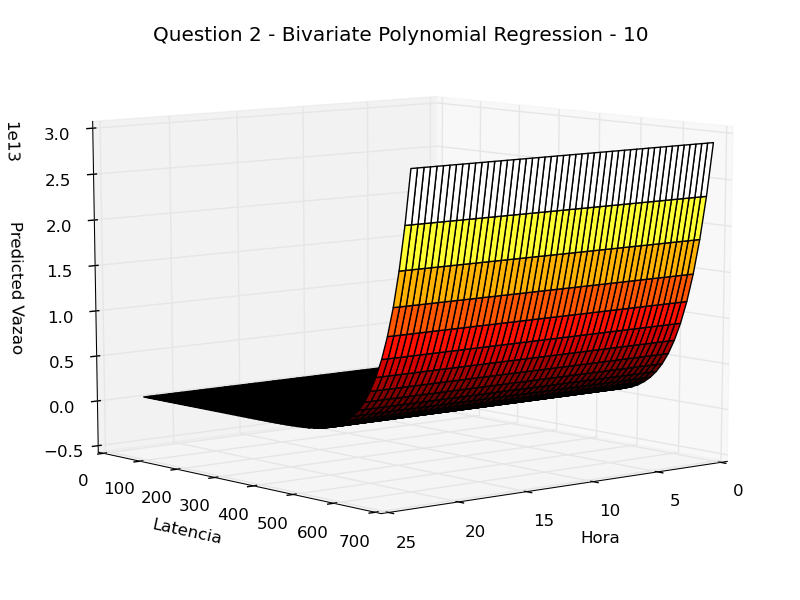
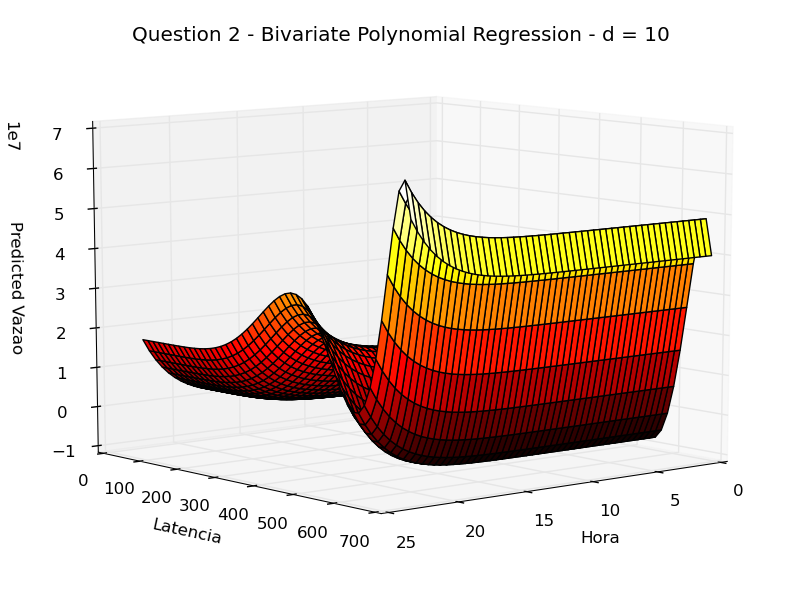
Fixing fit from question 2

diff --git a/Lista2/question2/question2.py b/Lista2/question2/question2.py
@@ -30,7 +30,7 @@ dList = [2,3,5,10]
 for d in dList:
 	formulaString = vazao + ' ~ 1'
 	
-	for expo in range(d+1):
+	for expo in range(1,d+1):
 		formulaString += ' + I('+hora+' ** '+str(expo)+')'
 		formulaString += ' + I('+latencia+' ** '+str(expo)+')'
 
@@ -41,13 +41,15 @@ for d in dList:
 	X = numpy.arange(data[['Col3']].min(), data[['Col3']].max(), data[['Col3']].max()/50)
 	Y = numpy.arange(data[['Col6']].min(), data[['Col6']].max(), data[['Col6']].max()/50)
 	X, Y = numpy.meshgrid(X,Y)
-	Z = [[poly_2.params[0]]*len(X)]*len(Y)
+	Z = poly_2.params[0]
+	
+	print poly_2.params
 	
 	for expo in range(1,d+1):
-		Z += poly_2.params[2*expo-1]*(X**expo) + poly_2.params[2*expo]*(Y**expo)
+		Z += poly_2.params[(2*expo)-1]*(X**expo) + poly_2.params[2*expo]*(Y**expo)
 
 	axes.plot_surface(X, Y, Z, rstride=1, cstride=1, cmap='hot')
-	axes.set_title('Question 2 - Bivariate Polynomial Regression - '+str(d))
+	axes.set_title('Question 2 - Bivariate Polynomial Regression - d = '+str(d))
 	axes.set_xlabel('Hora')
 	axes.set_ylabel('Latencia')
 	axes.set_zlabel('Predicted Vazao')
